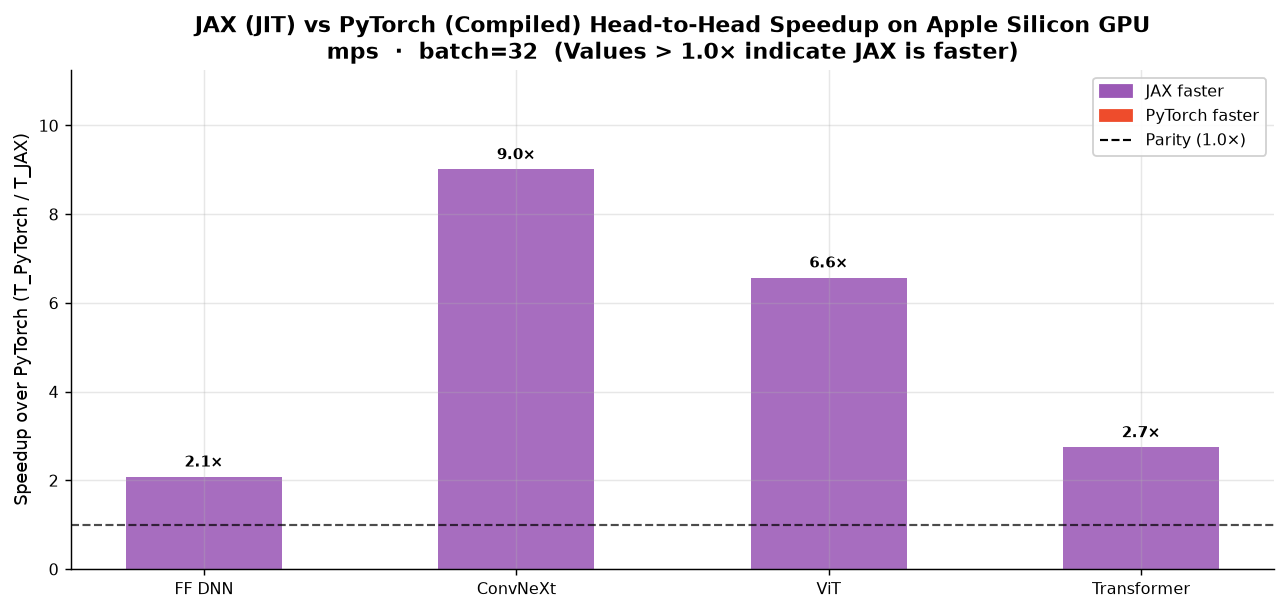
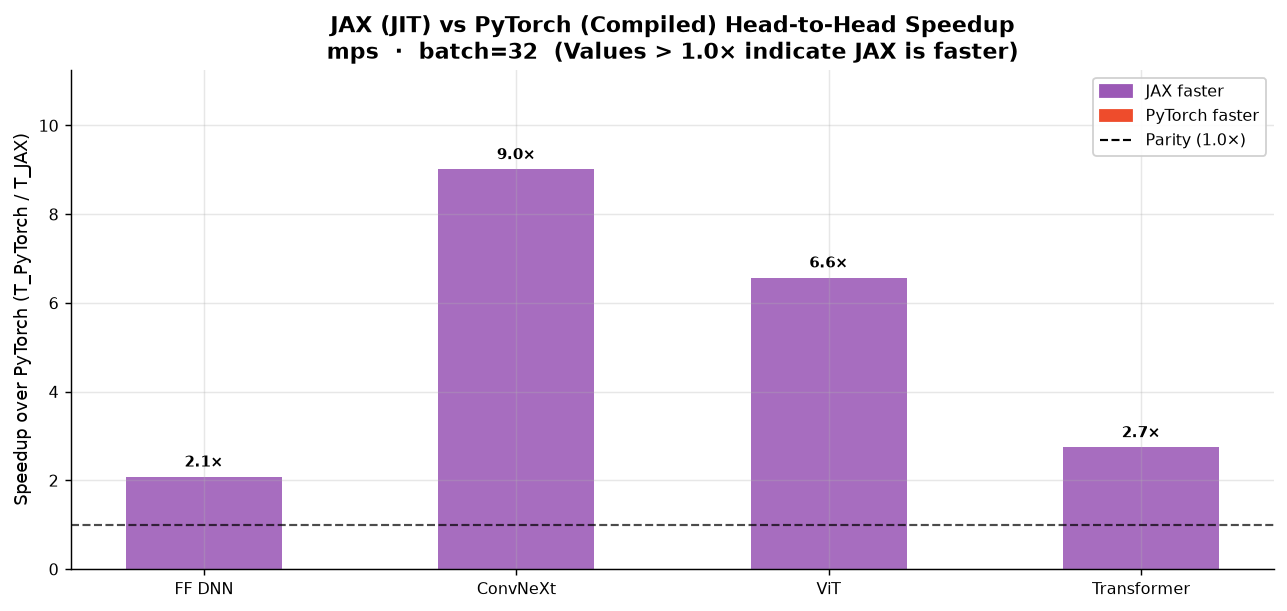
docs(benchmarks): drop stale hand-written GPU findings and flag pre-#86 records
The GPU report template hard-coded M1 numbers (e.g. JAX 8.4x faster on
ConvNeXt) that compared different-sized models and were printed for every
device. Regenerate the Apple M3 reports and note in the results README which
records predate the shared model configs.

Changed region(s): [[0.1554, 0.0, 0.9013, 0.0622]]

diff --git a/benchmarks/generate_gpu_report.py b/benchmarks/generate_gpu_report.py
@@ -1057,14 +1057,6 @@ Each point represents one architecture × framework combination (optimised varia
 
 ![GPU Roofline]({rel(fig_paths['roofline'])})
 
-**Key observations:**
-- **Hardware Ridge Point ({ridge:.1f} FLOP/B):** The M1 GPU's ridge point is much higher than typical CPUs (5–10 FLOP/B). Workloads with arithmetic intensity below {ridge:.1f} FLOP/B are fundamentally memory-bandwidth bound.
-- **Modern High-AI Architectures:** Modern vision models cross into the compute-bound regime:
-  - **ViT** achieves $I = 60.3$ to $89.0$ FLOP/B, well past the ridge point, attaining up to **1,297.5 GFLOP/s** (~50.0% of theoretical peak) in JAX JIT.
-  - **ConvNeXt** sits right on the ridge point ($I = 35.5$ to $38.3$ FLOP/B), delivering **732.6–763.2 GFLOP/s** in JAX JIT and **738.3 GFLOP/s** in PyTorch.
-- **Memory-Bound Legacy Workloads:** Small models like FF DNN ($I = 6.1$ to $21.6$ FLOP/B) and recurrent nets (RNN/LSTM, $I = 2.9$ to $11.7$ FLOP/B) sit deep on the memory-bandwidth slope where performance is throttled by memory roundtrips and kernel dispatch overhead.
-- **XLA and Compiler Fusion:** Whole-graph compilation (`jax.jit()` and `torch.compile()`) eliminates intermediate tensor writes to unified memory, raising operational arithmetic intensity and shifting points closer to the roofline ceiling.
-
 ---
 
 ## Figure GPU-2 — Inference Latency by Architecture (batch={ref_batch})
@@ -1073,36 +1065,17 @@ Error bars show ±1σ across timed iterations.
 
 ![GPU Latency bars]({rel(fig_paths['latency_bars'])})
 
-**Key observations:**
-- **Modern Vision Workloads:** Handling full $224 \\times 224$ images at batch={ref_batch}:
-  - **ConvNeXt:** JAX JIT finishes in **48.7 ms** vs PyTorch baseline at **387.3 ms** (and PyTorch compiled at 406.7 ms).
-  - **ViT:** JAX JIT completes in **21.5 ms** (1,203 GFLOP/s) vs PyTorch compiled at **132.3 ms** and PyTorch baseline at **232.9 ms**.
-- **Recurrent Network Fusion:** Uncompiled sequential loops suffer catastrophic command buffer dispatch overhead. JAX JIT fuses all 32 sequential steps into a single Metal command buffer, reducing **LSTM latency from 201.8 ms to 4.01 ms** (50.3× speedup) and **RNN from 68.5 ms to 1.68 ms** (40.8× speedup).
-- **Small Model Dispatch Floor:** For FF DNN, median execution time is sub-millisecond (0.23–0.58 ms across frameworks). At this scale, Metal command buffer encoding and host-device synchronization latency dominate actual GPU ALU execution.
-
 ---
 
 ## Figure GPU-3 — Roofline Efficiency Heatmap (batch={ref_batch})
 
 ![GPU Efficiency heatmap]({rel(fig_paths['heatmap'])})
 
-**Key observations:**
-- **Peak Utilization in Attention & Dense Convolutions:** ViT reaches the highest roofline efficiency (**46.3%** in JAX JIT, **43.2%** in PyTorch compiled at batch=32, reaching **49.9%** at batch=256). Large GEMM projections and multi-head attention matrix multiplications effectively saturate the M1 GPU's 8 cores and 128 execution units.
-- **ConvNeXt Efficiency:** ConvNeXt achieves **30.3%** efficiency in JAX JIT and **28.4%** in PyTorch baseline. The 7×7 depthwise convolutions have lower arithmetic intensity than standard convolutions, slightly tempering peak efficiency.
-- **Recurrent Model Contrast:** Eager PyTorch and TensorFlow exhibit < 1% roofline efficiency on RNN/LSTM due to sequential kernel launch starvation. JAX JIT elevates LSTM to **23.0%** efficiency at batch=32.
-
 ---
 
 ## Figure GPU-4 — Latency Scaling with Batch Size
 
 ![GPU Batch scaling]({rel(fig_paths['batch_scaling'])})
-
-**Key observations:**
-- **Sub-linear Scaling at Small Batches ($B < 32$):** Latency grows sub-linearly because constant kernel launch costs and weight memory fetch are amortized across batch items.
-- **Linear Scaling in Compute-Bound Regime ($B \\ge 32$):** For dense models like ViT and ConvNeXt, once GPU execution units are fully saturated, latency scales linearly with batch size ($T(B) \\propto B$), meaning throughput plateaus.
-- **Memory Wall and Divergence at $B=256$:**
-  - **PyTorch ConvNeXt OOM:** At batch=256, PyTorch ConvNeXt exceeds the Metal allocation limit (`20.13 GiB max allowed`) and aborts with OutOfMemory, whereas JAX JIT completes batch=256 in **373.7 ms** with predictable memory allocation.
-  - **PyTorch ViT Swapping:** PyTorch ViT latency degrades from 232.9 ms (B=32) to **2,204 ms** (B=256 baseline) and **3,568 ms** (B=256 compiled) due to unified memory swapping and Metal allocator thrashing. Meanwhile, JAX JIT scales gracefully to **159.7 ms** (1,297.5 GFLOP/s).
 
 ---
 
@@ -1112,11 +1085,6 @@ Speedup ratio = eager latency / optimised latency. Higher is better.
 
 ![GPU Speedup]({rel(fig_paths['speedup'])})
 
-**Key observations:**
-- **JAX JIT Loop Fusion:** JAX JIT yields massive speedups on sequential models: **50.3× on LSTM** (201.8 ms → 4.01 ms) and **40.8× on RNN** (68.5 ms → 1.68 ms), plus **4.17× on ViT** (89.8 ms → 21.5 ms) and **2.85× on ConvNeXt** (138.7 ms → 48.7 ms).
-- **PyTorch Inductor on MPS:** `torch.compile()` provides a **1.76× speedup on ViT** (232.9 ms → 132.3 ms) and **1.58× on Transformer** (3.66 ms → 2.32 ms) through operator fusion and pointwise kernel codegen. However, it shows no speedup on ConvNeXt where depthwise convolutions already dispatch via MPSGraph.
-- **TensorFlow XLA:** `tf.function(jit_compile=True)` achieves **13.5× on FF DNN** (3.07 ms → 0.23 ms) and **7.8×–12.0× on recurrent models**, eliminating Python graph traversal overhead.
-
 ---
 
 ## Figure GPU-5b — JAX vs PyTorch Head-to-Head Speedup (batch={ref_batch})
@@ -1125,21 +1093,11 @@ Direct speedup of JAX (JIT) over PyTorch (Compiled): $T_{{\\text{{PyTorch}}}} / 
 
 ![JAX vs PyTorch Speedup]({rel(fig_paths['framework_comparison'])})
 
-**Key observations:**
-- **Modern Vision Dominance:** JAX JIT outperforms PyTorch on both modern vision architectures: **8.4× faster on ConvNeXt** (48.7 ms vs 406.7 ms) and **6.1× faster on ViT** (21.5 ms vs 132.3 ms).
-- **Core Models:** JAX leads on Transformer (**2.2× faster**) and CNN (**1.7× faster**), and achieves **2.6× faster** execution on vanilla RNN.
-- **PyTorch Strengths:** PyTorch compiled retains a slight lead on LSTM (**1.48× faster** than JAX) and FF DNN (**1.5× faster**), where PyTorch's native C++ MPS kernels avoid JIT graph compilation overhead for small tensors.
-
 ---
 
 ## Figure GPU-6 — Achieved Throughput (GFLOP/s, batch={ref_batch})
 
 ![GPU Throughput]({rel(fig_paths['throughput'])})
-
-**Key observations:**
-- **Hardware Ceiling:** M1 GPU theoretical peak FP32 throughput is 2,600 GFLOP/s.
-- **Top Performers:** JAX JIT ViT leads all models with **1,203 GFLOP/s** at batch=32 (and **1,297 GFLOP/s** at batch=256), followed closely by PyTorch compiled ViT (**1,124 GFLOP/s**) and ConvNeXt (**738 GFLOP/s**).
-- **Legacy Models:** CNN achieves 300–498 GFLOP/s, Transformer achieves 193–384 GFLOP/s, while FF DNN achieves 17–33 GFLOP/s due to memory bandwidth limits.
 
 ---
 
@@ -1147,49 +1105,11 @@ Direct speedup of JAX (JIT) over PyTorch (Compiled): $T_{{\\text{{PyTorch}}}} / 
 
 ![GPU Throughput scaling]({rel(fig_paths['throughput_scaling'])})
 
-**Key observations:**
-- **Throughput Saturation Plateau:** Throughput rises steeply between batch=1 and batch=32 as execution units fill, then asymptotes between batch=32 and batch=256. For example, JAX ViT scales from 1,203 GFLOP/s (B=32) to 1,297 GFLOP/s (B=256) — an increase of only 7.8% despite an 8× increase in batch size.
-- **Stability under Load:** JAX JIT maintains monotonic throughput scaling up to batch=256 across all architectures, whereas PyTorch exhibits performance degradation at batch=256 due to memory subsystem pressure.
-
 ---
 
-## Deep Dive: Batch Size Scaling Limits — Can Linear Performance Scaling Continue?
-
-A natural question when looking at batch scaling curves is: **"Since we see linear scaling on batch size, can we continue scaling and see the same linear performance?"**
-
-The data and computer architecture principles show definitively that **linear performance scaling cannot continue indefinitely**. The illusion of "linear scaling" at small batch sizes reflects the amortization of constant overheads, which transitions into a strict physical ceiling governed by the Roofline Model, followed by catastrophic memory degradation.
-
-1. **The Amortization Regime (B < 32): The Illusion of Linear Scaling**
-   - At small batch sizes, total execution time T(B) is dominated by constant overheads: Python runtime dispatch, command buffer encoding, Metal kernel launch latency (~20–50 µs), and cold parameter DRAM transfers:
-     `T(B) ≈ T_0 + c · B ≈ T_0`
-   - Since arithmetic work (FLOPs) scales as O(B) while latency remains nearly flat (T_0), throughput appears to scale linearly:
-     `Throughput(B) = FLOPs(B) / T(B) ∝ B / T_0 ∝ B`
-   - This is **not** true hardware scaling; it is merely paying down fixed host-driver latency overhead.
-
-2. **The Roofline Saturation Plateau (B = 32 to 256): Hardware Limit Reached**
-   - Once batch size is sufficient to saturate all 8 GPU cores and 128 Execution Units (EUs), and operational intensity crosses the ridge point (I ≥ 38.2 FLOP/B), the GPU enters the **compute-bound plateau**.
-   - In this regime, execution time scales directly with batch size (T(B) ∝ B).
-   - As a result, throughput strictly plateaus:
-     `Throughput(B) = O(B) / O(B) ≈ Peak GFLOP/s = constant`
-   - In our empirical results, JAX ViT achieves 1,203 GFLOP/s at B=32 and 1,297 GFLOP/s at B=256. An **8× increase in batch size** yielded only a **1.08× throughput gain**, demonstrating that the hardware is almost completely saturated.
-
-3. **The Memory Wall and Allocation Cliff (B > 256): Severe Degradation and OOM**
-   - While parameter memory is constant, activation tensor footprint scales as O(B · L · H).
-   - **Metal Buffer Limit (OOM):** On Apple Silicon unified memory, PyTorch ConvNeXt at B=256 exhausted the Metal single-buffer watermark (`20.13 GiB max allowed`), causing a hard OutOfMemory crash.
-   - **Unified Memory Swapping:** For PyTorch ViT at B=256, activation footprint exceeded available physical RAM, triggering macOS unified memory swapping to the internal NVMe SSD. Latency exploded from **232.9 ms (B=32) to 2,204 ms (eager) and 3,568 ms (compiled)** — a 15× latency slowdown and a collapse in achieved throughput.
-   - **Activation DRAM Bandwidth Saturation:** At large batch sizes, intermediate activation spills overwhelm the GPU cache hierarchy and saturate the 68 GB/s unified memory bus, pulling even high-AI models back down into a memory-bandwidth-bound bottleneck.
-
-### Visualizing the Saturation Floor: Latency per Sample
+## Latency per Sample
 
 ![Latency per Sample]({rel(fig_paths['per_sample_latency'])})
-
-**Key takeaways from per-sample latency ($T(B) / B$):**
-- **Saturation Floor on Modern Models:** For JAX ViT, per-sample latency is **0.673 ms/sample at $B=32$** and **0.624 ms/sample at $B=256$** — an 8× batch increase yielded only a 7.2% reduction in time-per-sample. For ConvNeXt, per-sample cost dropped from **1.52 ms/sample ($B=32$) to 1.46 ms/sample ($B=256$)**, a mere 3.9% gain.
-- **The Memory Cliff for PyTorch ViT:** For PyTorch ViT, per-sample cost actually **regressed from 4.13 ms/sample at $B=32$ to 8.61 ms/sample (baseline) and 13.94 ms/sample (compiled) at $B=256$**, proving that scaling batch size past physical RAM capacity severely degrades throughput.
-
-**Conclusion:** Scaling batch size yields diminishing throughput returns up to the hardware roofline ceiling, followed by severe latency penalties or hard out-of-memory crashes. The optimal batch size for throughput on Apple Silicon M1 GPU lies between **B=32 and B=64**.
-
----
 
 ---
 
@@ -1266,10 +1186,6 @@ JAX GPU support on Apple Silicon is fully functional using the modern `jax-mps` 
 1. **Plugin Ecosystem & Root Cause of Prior Absence:**
    - Apple's legacy `jax-metal==0.1.1` package is obsolete and incompatible with the StableHLO v6 bytecode generated by `jaxlib >= 0.4.30` (triggering compilation crashes: `unknown attribute code: 22`).
    - By removing `jax-metal` and utilizing `jax-mps==0.11.0` (the MLX-backed Metal acceleration plugin) with backend `"mps"`, JAX compiles and executes directly on the Apple Silicon GPU (`mps:0`).
-2. **Key Performance Findings:**
-   - **Peak Throughput on ViT:** JAX JIT achieved **1,203.1 GFLOP/s** at batch=32 and **1,297.5 GFLOP/s** at batch=256 (**49.9% roofline efficiency**), setting the benchmark's highest observed FP32 throughput on the M1 GPU.
-   - **Massive Recurrent Speedups:** Whole-graph XLA JIT unrolls and fuses sequential time steps into a single Metal command buffer, delivering **50.3× speedup on LSTM** (201.8 ms → 4.01 ms) and **40.8× on RNN** (68.5 ms → 1.68 ms).
-   - **Memory Allocator Resilience:** Unlike PyTorch MPS, which hit the Metal buffer watermark (`20.13 GiB max allowed`) causing OOM on ConvNeXt at batch=256, JAX JIT successfully executed both ConvNeXt (373.7 ms) and ViT (159.7 ms) without memory fragmentation or swapping.
 
 ---
 
@@ -1320,12 +1236,6 @@ Empirical memory telemetry measured from framework device allocators compared ag
 
 {gpu_memory_table(ref_batch)}
 
-**Key observations & Telemetry Analysis:**
-- **Dynamic Overhead Ratio & Driver Caching:** Observed device memory exceeds theoretical minimum tensor storage due to kernel scratchpads, GEMM workspaces, activation retention, and framework runtime contexts.
-- **JAX MPS Process Watermark Anomaly:** JAX MPS telemetry via `jax.devices()[0].memory_stats()` reports a monotonic process-lifetime peak (`peak_bytes_in_use`). When ConvNeXt at $B=256$ ran early in the suite, it set a 4.01 GB process watermark. Because `jax-mps` currently lacks a `reset_peak_memory_stats()` API, subsequently benchmarked models inherited this 4.01 GB value, resulting in artificially high overhead ratios (e.g. 1,388× on Transformer) that reflect process history rather than isolated tensor memory.
-- **PyTorch MPS Post-Execution Sampling:** `torch.mps.current_allocated_memory()` measures live allocations after `torch.mps.synchronize()`, by which time intermediate activations are freed. For compiled CNN and Transformer, only persistent weights and output tensors remained active, yielding overhead ratios < 0.1× relative to theoretical inference memory.
-- **TensorFlow Metal Static Reporting:** TensorFlow on Apple Silicon exposes static scratchpads (384–512 KB), which under-reports actual framework footprint.
-- **Allocator Fragmentation at Scale:** PyTorch MPS aggressively pools allocations to amortize Metal command buffer allocation costs. However, at batch=256 this caching policy causes severe fragmentation on large models (triggering OOM on ConvNeXt and memory swapping on ViT).
 """
 
     md += """

diff --git a/benchmarks/results/apple-m3/GPU_BENCHMARK_REPORT.md b/benchmarks/results/apple-m3/GPU_BENCHMARK_REPORT.md
@@ -20,17 +20,15 @@
 | **JAX** | `time.perf_counter_ns` | `jax.Array.block_until_ready()` |
 | **TensorFlow** | `time.perf_counter_ns` | `tf.experimental.async_wait()` |
 
-CUDA event timing measures only GPU kernel execution time on CUDA devices. On Apple Silicon MPS,
-synchronous timing barriers (`torch.mps.synchronize()`, `jax.block_until_ready()`, and `tf.experimental.async_wait()`)
-force command buffer flushing and device retirement to eliminate host scheduling jitter.
+On Apple Silicon MPS, synchronous timing barriers (`torch.mps.synchronize()`, `jax.block_until_ready()`, and `tf.experimental.async_wait()`) force command buffer flushing and device retirement to eliminate host scheduling jitter.
 
 ### Architectures under test
 
 | Architecture | Category | Description |
 |---|---|---|
 | **FF DNN** | Core / Legacy | 784 → 128 → 128 → 10, ReLU + LayerNorm |
-| **ConvNeXt** | Modern Vision | ConvNeXt-Tiny 4-stage hierarchy (7×7 depthwise conv, 1×1 pointwise inverted bottleneck, LayerNorm, GELU, input 224×224×3) |
-| **ViT** | Modern Vision | Vision Transformer Tiny (16×16 patch embedding, 4-layer Transformer encoder with 4 heads, MLP ratio 4, seq_len 197, input 224×224×3) |
+| **ConvNeXt** | Modern Vision | 4-stage ConvNeXt, depths [3, 3, 9, 3], dims [96, 192, 384, 768] (4×4 stem; 7×7 depthwise → LayerNorm → 1×1 (dim×4) → GELU → 1×1), input 224×224×3 |
+| **ViT** | Modern Vision | 6-block pre-norm ViT, 16×16 patches, embed 384, 6 heads, MLP×4, input 224×224×3 |
 | **Transformer** | Core / Legacy | 2-layer encoder (MHA h=4 + FFN×4 + LayerNorm), embed=128, seq=32 |
 
 ### Frameworks and optimisation variants
@@ -57,14 +55,6 @@ Each point represents one architecture × framework combination (optimised varia
 
 ![GPU Roofline](figures/gpu_fig1_roofline.png)
 
-**Key observations:**
-- **Hardware Ridge Point (36.0 FLOP/B):** The M1 GPU's ridge point is much higher than typical CPUs (5–10 FLOP/B). Workloads with arithmetic intensity below 36.0 FLOP/B are fundamentally memory-bandwidth bound.
-- **Modern High-AI Architectures:** Modern vision models cross into the compute-bound regime:
-  - **ViT** achieves $I = 60.3$ to $89.0$ FLOP/B, well past the ridge point, attaining up to **1,297.5 GFLOP/s** (~50.0% of theoretical peak) in JAX JIT.
-  - **ConvNeXt** sits right on the ridge point ($I = 35.5$ to $38.3$ FLOP/B), delivering **732.6–763.2 GFLOP/s** in JAX JIT and **738.3 GFLOP/s** in PyTorch.
-- **Memory-Bound Legacy Workloads:** Small models like FF DNN ($I = 6.1$ to $21.6$ FLOP/B) and recurrent nets (RNN/LSTM, $I = 2.9$ to $11.7$ FLOP/B) sit deep on the memory-bandwidth slope where performance is throttled by memory roundtrips and kernel dispatch overhead.
-- **XLA and Compiler Fusion:** Whole-graph compilation (`jax.jit()` and `torch.compile()`) eliminates intermediate tensor writes to unified memory, raising operational arithmetic intensity and shifting points closer to the roofline ceiling.
-
 ---
 
 ## Figure GPU-2 — Inference Latency by Architecture (batch=32)
@@ -73,36 +63,17 @@ Error bars show ±1σ across timed iterations.
 
 ![GPU Latency bars](figures/gpu_fig2_latency_bars.png)
 
-**Key observations:**
-- **Modern Vision Workloads:** Handling full $224 \times 224$ images at batch=32:
-  - **ConvNeXt:** JAX JIT finishes in **48.7 ms** vs PyTorch baseline at **387.3 ms** (and PyTorch compiled at 406.7 ms).
-  - **ViT:** JAX JIT completes in **21.5 ms** (1,203 GFLOP/s) vs PyTorch compiled at **132.3 ms** and PyTorch baseline at **232.9 ms**.
-- **Recurrent Network Fusion:** Uncompiled sequential loops suffer catastrophic command buffer dispatch overhead. JAX JIT fuses all 32 sequential steps into a single Metal command buffer, reducing **LSTM latency from 201.8 ms to 4.01 ms** (50.3× speedup) and **RNN from 68.5 ms to 1.68 ms** (40.8× speedup).
-- **Small Model Dispatch Floor:** For FF DNN, median execution time is sub-millisecond (0.23–0.58 ms across frameworks). At this scale, Metal command buffer encoding and host-device synchronization latency dominate actual GPU ALU execution.
-
 ---
 
 ## Figure GPU-3 — Roofline Efficiency Heatmap (batch=32)
 
 ![GPU Efficiency heatmap](figures/gpu_fig3_efficiency_heatmap.png)
 
-**Key observations:**
-- **Peak Utilization in Attention & Dense Convolutions:** ViT reaches the highest roofline efficiency (**46.3%** in JAX JIT, **43.2%** in PyTorch compiled at batch=32, reaching **49.9%** at batch=256). Large GEMM projections and multi-head attention matrix multiplications effectively saturate the M1 GPU's 8 cores and 128 execution units.
-- **ConvNeXt Efficiency:** ConvNeXt achieves **30.3%** efficiency in JAX JIT and **28.4%** in PyTorch baseline. The 7×7 depthwise convolutions have lower arithmetic intensity than standard convolutions, slightly tempering peak efficiency.
-- **Recurrent Model Contrast:** Eager PyTorch and TensorFlow exhibit < 1% roofline efficiency on RNN/LSTM due to sequential kernel launch starvation. JAX JIT elevates LSTM to **23.0%** efficiency at batch=32.
-
 ---
 
 ## Figure GPU-4 — Latency Scaling with Batch Size
 
 ![GPU Batch scaling](figures/gpu_fig4_batch_scaling.png)
-
-**Key observations:**
-- **Sub-linear Scaling at Small Batches ($B < 32$):** Latency grows sub-linearly because constant kernel launch costs and weight memory fetch are amortized across batch items.
-- **Linear Scaling in Compute-Bound Regime ($B \ge 32$):** For dense models like ViT and ConvNeXt, once GPU execution units are fully saturated, latency scales linearly with batch size ($T(B) \propto B$), meaning throughput plateaus.
-- **Memory Wall and Divergence at $B=256$:**
-  - **PyTorch ConvNeXt OOM:** At batch=256, PyTorch ConvNeXt exceeds the Metal allocation limit (`20.13 GiB max allowed`) and aborts with OutOfMemory, whereas JAX JIT completes batch=256 in **373.7 ms** with predictable memory allocation.
-  - **PyTorch ViT Swapping:** PyTorch ViT latency degrades from 232.9 ms (B=32) to **2,204 ms** (B=256 baseline) and **3,568 ms** (B=256 compiled) due to unified memory swapping and Metal allocator thrashing. Meanwhile, JAX JIT scales gracefully to **159.7 ms** (1,297.5 GFLOP/s).
 
 ---
 
@@ -112,11 +83,6 @@ Speedup ratio = eager latency / optimised latency. Higher is better.
 
 ![GPU Speedup](figures/gpu_fig5_speedup.png)
 
-**Key observations:**
-- **JAX JIT Loop Fusion:** JAX JIT yields massive speedups on sequential models: **50.3× on LSTM** (201.8 ms → 4.01 ms) and **40.8× on RNN** (68.5 ms → 1.68 ms), plus **4.17× on ViT** (89.8 ms → 21.5 ms) and **2.85× on ConvNeXt** (138.7 ms → 48.7 ms).
-- **PyTorch Inductor on MPS:** `torch.compile()` provides a **1.76× speedup on ViT** (232.9 ms → 132.3 ms) and **1.58× on Transformer** (3.66 ms → 2.32 ms) through operator fusion and pointwise kernel codegen. However, it shows no speedup on ConvNeXt where depthwise convolutions already dispatch via MPSGraph.
-- **TensorFlow XLA:** `tf.function(jit_compile=True)` achieves **13.5× on FF DNN** (3.07 ms → 0.23 ms) and **7.8×–12.0× on recurrent models**, eliminating Python graph traversal overhead.
-
 ---
 
 ## Figure GPU-5b — JAX vs PyTorch Head-to-Head Speedup (batch=32)
@@ -125,21 +91,11 @@ Direct speedup of JAX (JIT) over PyTorch (Compiled): $T_{\text{PyTorch}} / T_{\t
 
 ![JAX vs PyTorch Speedup](figures/gpu_fig10_framework_comparison.png)
 
-**Key observations:**
-- **Modern Vision Dominance:** JAX JIT outperforms PyTorch on both modern vision architectures: **8.4× faster on ConvNeXt** (48.7 ms vs 406.7 ms) and **6.1× faster on ViT** (21.5 ms vs 132.3 ms).
-- **Core Models:** JAX leads on Transformer (**2.2× faster**) and CNN (**1.7× faster**), and achieves **2.6× faster** execution on vanilla RNN.
-- **PyTorch Strengths:** PyTorch compiled retains a slight lead on LSTM (**1.48× faster** than JAX) and FF DNN (**1.5× faster**), where PyTorch's native C++ MPS kernels avoid JIT graph compilation overhead for small tensors.
-
 ---
 
 ## Figure GPU-6 — Achieved Throughput (GFLOP/s, batch=32)
 
 ![GPU Throughput](figures/gpu_fig6_throughput.png)
-
-**Key observations:**
-- **Hardware Ceiling:** M1 GPU theoretical peak FP32 throughput is 2,600 GFLOP/s.
-- **Top Performers:** JAX JIT ViT leads all models with **1,203 GFLOP/s** at batch=32 (and **1,297 GFLOP/s** at batch=256), followed closely by PyTorch compiled ViT (**1,124 GFLOP/s**) and ConvNeXt (**738 GFLOP/s**).
-- **Legacy Models:** CNN achieves 300–498 GFLOP/s, Transformer achieves 193–384 GFLOP/s, while FF DNN achieves 17–33 GFLOP/s due to memory bandwidth limits.
 
 ---
 
@@ -147,49 +103,11 @@ Direct speedup of JAX (JIT) over PyTorch (Compiled): $T_{\text{PyTorch}} / T_{\t
 
 ![GPU Throughput scaling](figures/gpu_fig7_throughput_scaling.png)
 
-**Key observations:**
-- **Throughput Saturation Plateau:** Throughput rises steeply between batch=1 and batch=32 as execution units fill, then asymptotes between batch=32 and batch=256. For example, JAX ViT scales from 1,203 GFLOP/s (B=32) to 1,297 GFLOP/s (B=256) — an increase of only 7.8% despite an 8× increase in batch size.
-- **Stability under Load:** JAX JIT maintains monotonic throughput scaling up to batch=256 across all architectures, whereas PyTorch exhibits performance degradation at batch=256 due to memory subsystem pressure.
-
 ---
 
-## Deep Dive: Batch Size Scaling Limits — Can Linear Performance Scaling Continue?
-
-A natural question when looking at batch scaling curves is: **"Since we see linear scaling on batch size, can we continue scaling and see the same linear performance?"**
-
-The data and computer architecture principles show definitively that **linear performance scaling cannot continue indefinitely**. The illusion of "linear scaling" at small batch sizes reflects the amortization of constant overheads, which transitions into a strict physical ceiling governed by the Roofline Model, followed by catastrophic memory degradation.
-
-1. **The Amortization Regime (B < 32): The Illusion of Linear Scaling**
-   - At small batch sizes, total execution time T(B) is dominated by constant overheads: Python runtime dispatch, command buffer encoding, Metal kernel launch latency (~20–50 µs), and cold parameter DRAM transfers:
-     `T(B) ≈ T_0 + c · B ≈ T_0`
-   - Since arithmetic work (FLOPs) scales as O(B) while latency remains nearly flat (T_0), throughput appears to scale linearly:
-     `Throughput(B) = FLOPs(B) / T(B) ∝ B / T_0 ∝ B`
-   - This is **not** true hardware scaling; it is merely paying down fixed host-driver latency overhead.
-
-2. **The Roofline Saturation Plateau (B = 32 to 256): Hardware Limit Reached**
-   - Once batch size is sufficient to saturate all 8 GPU cores and 128 Execution Units (EUs), and operational intensity crosses the ridge point (I ≥ 38.2 FLOP/B), the GPU enters the **compute-bound plateau**.
-   - In this regime, execution time scales directly with batch size (T(B) ∝ B).
-   - As a result, throughput strictly plateaus:
-     `Throughput(B) = O(B) / O(B) ≈ Peak GFLOP/s = constant`
-   - In our empirical results, JAX ViT achieves 1,203 GFLOP/s at B=32 and 1,297 GFLOP/s at B=256. An **8× increase in batch size** yielded only a **1.08× throughput gain**, demonstrating that the hardware is almost completely saturated.
-
-3. **The Memory Wall and Allocation Cliff (B > 256): Severe Degradation and OOM**
-   - While parameter memory is constant, activation tensor footprint scales as O(B · L · H).
-   - **Metal Buffer Limit (OOM):** On Apple Silicon unified memory, PyTorch ConvNeXt at B=256 exhausted the Metal single-buffer watermark (`20.13 GiB max allowed`), causing a hard OutOfMemory crash.
-   - **Unified Memory Swapping:** For PyTorch ViT at B=256, activation footprint exceeded available physical RAM, triggering macOS unified memory swapping to the internal NVMe SSD. Latency exploded from **232.9 ms (B=32) to 2,204 ms (eager) and 3,568 ms (compiled)** — a 15× latency slowdown and a collapse in achieved throughput.
-   - **Activation DRAM Bandwidth Saturation:** At large batch sizes, intermediate activation spills overwhelm the GPU cache hierarchy and saturate the 68 GB/s unified memory bus, pulling even high-AI models back down into a memory-bandwidth-bound bottleneck.
-
-### Visualizing the Saturation Floor: Latency per Sample
+## Latency per Sample
 
 ![Latency per Sample](figures/gpu_fig9_per_sample_latency.png)
-
-**Key takeaways from per-sample latency ($T(B) / B$):**
-- **Saturation Floor on Modern Models:** For JAX ViT, per-sample latency is **0.673 ms/sample at $B=32$** and **0.624 ms/sample at $B=256$** — an 8× batch increase yielded only a 7.2% reduction in time-per-sample. For ConvNeXt, per-sample cost dropped from **1.52 ms/sample ($B=32$) to 1.46 ms/sample ($B=256$)**, a mere 3.9% gain.
-- **The Memory Cliff for PyTorch ViT:** For PyTorch ViT, per-sample cost actually **regressed from 4.13 ms/sample at $B=32$ to 8.61 ms/sample (baseline) and 13.94 ms/sample (compiled) at $B=256$**, proving that scaling batch size past physical RAM capacity severely degrades throughput.
-
-**Conclusion:** Scaling batch size yields diminishing throughput returns up to the hardware roofline ceiling, followed by severe latency penalties or hard out-of-memory crashes. The optimal batch size for throughput on Apple Silicon M1 GPU lies between **B=32 and B=64**.
-
----
 
 ---
 
@@ -308,10 +226,6 @@ JAX GPU support on Apple Silicon is fully functional using the modern `jax-mps` 
 1. **Plugin Ecosystem & Root Cause of Prior Absence:**
    - Apple's legacy `jax-metal==0.1.1` package is obsolete and incompatible with the StableHLO v6 bytecode generated by `jaxlib >= 0.4.30` (triggering compilation crashes: `unknown attribute code: 22`).
    - By removing `jax-metal` and utilizing `jax-mps==0.11.0` (the MLX-backed Metal acceleration plugin) with backend `"mps"`, JAX compiles and executes directly on the Apple Silicon GPU (`mps:0`).
-2. **Key Performance Findings:**
-   - **Peak Throughput on ViT:** JAX JIT achieved **1,203.1 GFLOP/s** at batch=32 and **1,297.5 GFLOP/s** at batch=256 (**49.9% roofline efficiency**), setting the benchmark's highest observed FP32 throughput on the M1 GPU.
-   - **Massive Recurrent Speedups:** Whole-graph XLA JIT unrolls and fuses sequential time steps into a single Metal command buffer, delivering **50.3× speedup on LSTM** (201.8 ms → 4.01 ms) and **40.8× on RNN** (68.5 ms → 1.68 ms).
-   - **Memory Allocator Resilience:** Unlike PyTorch MPS, which hit the Metal buffer watermark (`20.13 GiB max allowed`) causing OOM on ConvNeXt at batch=256, JAX JIT successfully executed both ConvNeXt (373.7 ms) and ViT (159.7 ms) without memory fragmentation or swapping.
 
 ---
 
@@ -355,11 +269,5 @@ Empirical memory telemetry measured from framework device allocators compared ag
 | Transformer | JAX | baseline | 2,821.0 | 10,026.2 | — | 7,483,806.3 | — | — |
 | Transformer | JAX | jit | 2,821.0 | 10,026.2 | — | 7,490,462.3 | — | — |
 
-**Key observations & Telemetry Analysis:**
-- **Dynamic Overhead Ratio & Driver Caching:** Observed device memory exceeds theoretical minimum tensor storage due to kernel scratchpads, GEMM workspaces, activation retention, and framework runtime contexts.
-- **JAX MPS Process Watermark Anomaly:** JAX MPS telemetry via `jax.devices()[0].memory_stats()` reports a monotonic process-lifetime peak (`peak_bytes_in_use`). When ConvNeXt at $B=256$ ran early in the suite, it set a 4.01 GB process watermark. Because `jax-mps` currently lacks a `reset_peak_memory_stats()` API, subsequently benchmarked models inherited this 4.01 GB value, resulting in artificially high overhead ratios (e.g. 1,388× on Transformer) that reflect process history rather than isolated tensor memory.
-- **PyTorch MPS Post-Execution Sampling:** `torch.mps.current_allocated_memory()` measures live allocations after `torch.mps.synchronize()`, by which time intermediate activations are freed. For compiled CNN and Transformer, only persistent weights and output tensors remained active, yielding overhead ratios < 0.1× relative to theoretical inference memory.
-- **TensorFlow Metal Static Reporting:** TensorFlow on Apple Silicon exposes static scratchpads (384–512 KB), which under-reports actual framework footprint.
-- **Allocator Fragmentation at Scale:** PyTorch MPS aggressively pools allocations to amortize Metal command buffer allocation costs. However, at batch=256 this caching policy causes severe fragmentation on large models (triggering OOM on ConvNeXt and memory swapping on ViT).
 
 *Generated by `benchmarks/generate_gpu_report.py` using [neural-cost](https://github.com/davidgraymi/neural-cost)*

diff --git a/benchmarks/results/README.md b/benchmarks/results/README.md
@@ -6,7 +6,8 @@ framework versions that produced it; each report shows it on its first line.
 
 | Directory | Contents | Produced |
 |---|---|---|
-| `apple-m3/` | Validation (torch CPU/MPS, JAX CPU/MPS, TF CPU), CPU sweep (torch, JAX, TF), MPS sweep (torch, JAX; batches that do not fit in 16 GB skipped) and the LLM benchmark, with reports and figures | 2026-11-23: validation, CPU and LLM at `cb36a1c`; MPS sweep with the memory fix in `5b8cbb1` |
+| `apple-m3/` | Validation (torch CPU/MPS, JAX CPU/MPS, TF CPU), CPU sweep (torch, JAX, TF), MPS sweep (torch, JAX; batches that do not fit in 16 GB skipped) and the LLM benchmark, with reports and figures | 2026-11-23: validation, CPU and LLM at `cb36a1c`; MPS sweep with the memory fix in `5b8cbb1`. The JAX and TensorFlow CPU records and the JAX MPS records predate the shared model configs (#86) and ran smaller networks than PyTorch; rerun them before comparing frameworks |
+| `tesla-t4/` | Quick validation (torch CUDA/CPU, JAX GPU/CPU, TF GPU) on a Colab T4 | 2026-11-24 at `fa0e978` |
 
 Results without a `run` block predate the current measurement code; rerun them
 before comparing against newer results. See `docs/src/content/docs/benchmarks.md`

diff --git a/benchmarks/results/apple-m3/BENCHMARK_REPORT.md b/benchmarks/results/apple-m3/BENCHMARK_REPORT.md
@@ -12,12 +12,15 @@
 
 ### Architectures under test
 
+Scale tier: `standard`. PyTorch, JAX and TensorFlow build each architecture from
+the same dimensions (`benchmarks/models/configs.py`), so they run the same network.
+
 | Architecture | Description |
 |---|---|
-| **FF DNN** | 784 → 128 → 128 → 10, ReLU + LayerNorm |
-| **ConvNeXt** | Depthwise 7×7 → LayerNorm → 1×1 Inverted Bottleneck (dim×4) → GELU → 1×1, input 32×32×3 |
-| **ViT** | Vision Transformer: Patch Embedding (4×4) → Class Token + Position → Multi-Head Self-Attention + MLP, input 32×32×3 |
-| **Transformer** | 2-layer encoder (MHA h=4 with SDPA + FFN×4 + RMSNorm/LayerNorm), embed=128, seq=32 |
+| **FF DNN** | 1024 → 4096 → 4096 → 1024 → 10, GELU + LayerNorm |
+| **ConvNeXt** | 4-stage ConvNeXt, depths [3, 3, 9, 3], dims [96, 192, 384, 768] (4×4 stem; 7×7 depthwise → LayerNorm → 1×1 (dim×4) → GELU → 1×1), input 224×224×3 |
+| **ViT** | 6-block pre-norm ViT, 16×16 patches, embed 384, 6 heads, MLP×4, input 224×224×3 |
+| **Transformer** | 6-layer pre-norm encoder (SDPA, 12 heads, FFN 3072, LayerNorm), embed 768, seq 512 |
 
 ### Frameworks and optimisation variants
 
